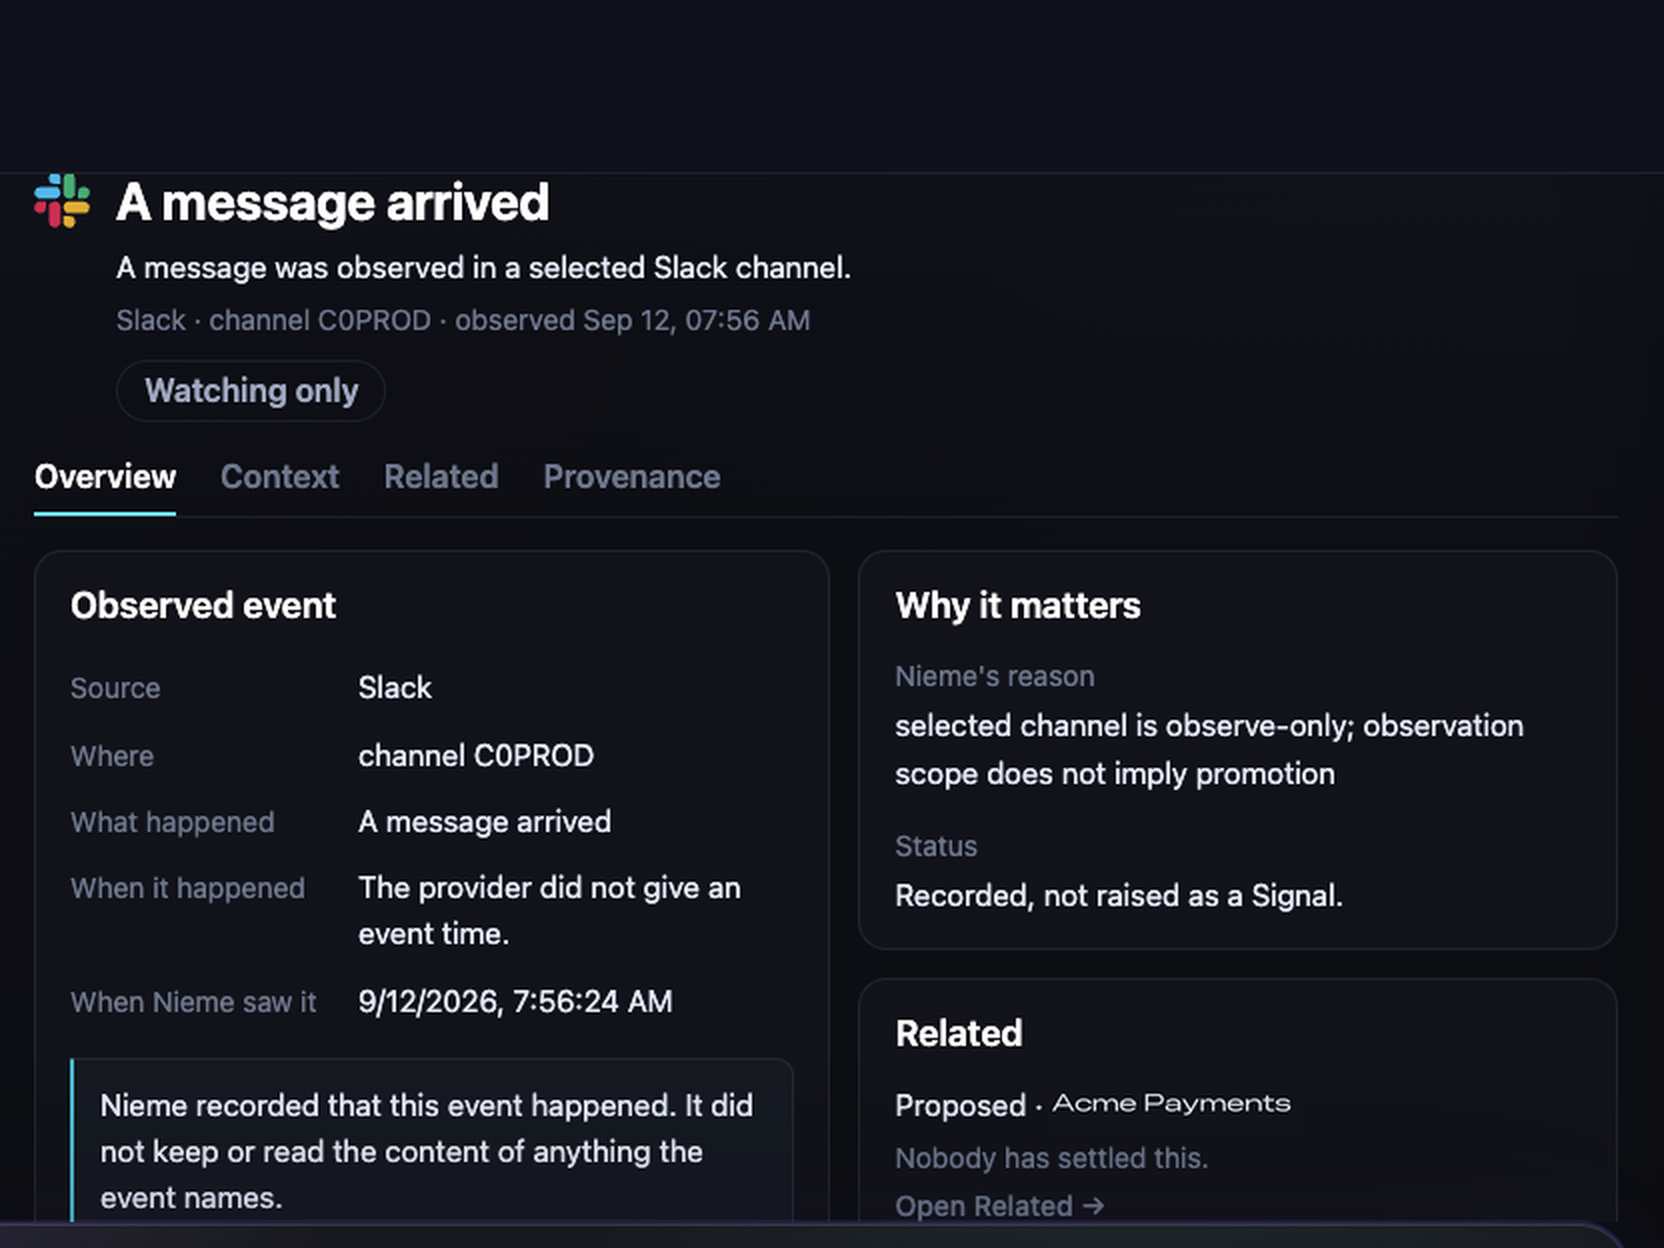
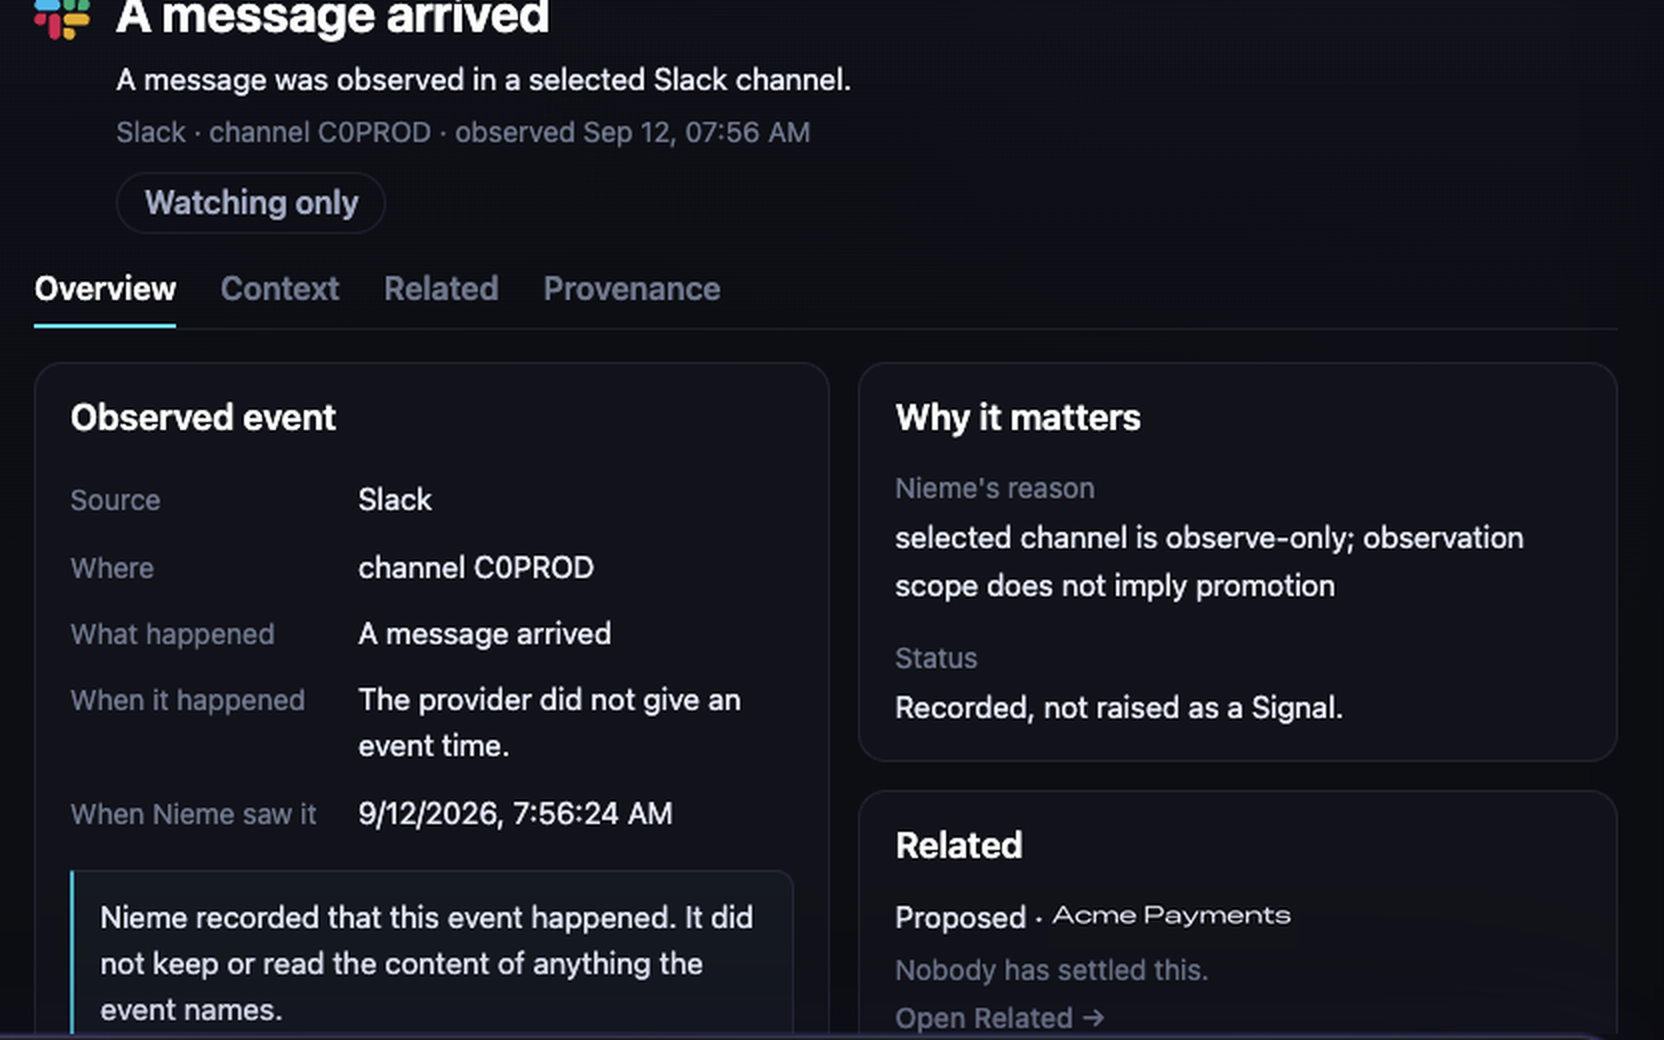
WEBSITE-RUNTIME-REPOSITION-001 R4.3 — Without/With ledger, frame 02 POC
THE PROBLEM UNDERNEATH — Product Authority: the seven-step chain "is not really
self-explanatory... I prefer the comparison without Nieme and With Nieme".

Replaced with a ledger of the same seven steps against who carries each one:

  WITHOUT NIEME            WITH NIEME
  a person   x7            Nieme x5, a person x1, already carried x1
  Seven steps on a person  One decision on a person

The claim is now legible without reading the caption, and it stays honest: the
one step Nieme does not take is "Decide what should happen", which is
highlighted rather than hidden. Step 7 resolves to "already carried" instead of
fraying, which is the actual product behaviour. The chain's decay treatment,
its seams and its numbered pills are retired.

Note: `.ledger` is an existing legacy section class carrying section padding, so
the new container is `.whocarries` — the collision was silently insetting every
row by 64px. The burden column is neutral grey, not a warm tint: the colour law
says neutrals carry meaning, and the repetition of "a person" already makes the
point without inventing a semantic hue.

FRAME 02 — POC ONLY, NOT SHIPPABLE. The supplied Operation Draft capture is
structurally ideal for this frame: DRAFT.ON · OPERATION.ON, the Workforce /
Budget / Deadline / Assurance / Outputs bar, OPERATION DRAFT with its saved-draft
id, "Ready to approve · Ready for Review", OUTCOME / TITLE, the objective, and
[…]

diff --git a/index.html b/index.html
@@ -212,7 +212,7 @@
                  while the frame-01 spec calls for "Raised as a Signal". This crop proves
                  observation-without-authority rather than promotion — decide which claim
                  frame 01 should make. A real channel identifier remains in the crop. -->
-            <img src="/assets/shots/proof-observed.png" alt="Nieme Signals: a Slack message observed in a selected channel, with its source, both timestamps, why it matters, and the status — recorded, not raised as a Signal." loading="lazy" width="1664" height="1248">
+            <img src="/assets/shots/proof-observed.png" alt="Nieme Signals: a Slack message observed in a selected channel, with its source, both timestamps, why it matters, and the status — recorded, not raised as a Signal." loading="lazy" width="1664" height="1040">
           </div>
         </figure>
         <div class="proof-link" aria-hidden="true"><span class="proof-link-dot"></span></div>
@@ -220,11 +220,21 @@
           <div class="proof-head"><span class="proof-num">02</span><h3>Governed</h3></div>
           <p class="proof-note">Context becomes proposed work. Authority decides whether it may run.</p>
           <div class="proof-shot">
-            <div class="shot-placeholder">
-              <span class="shot-slot-label">PROOF FRAME B · GOVERNED</span>
-              <p class="shot-slot-desc">The Context change · the suggested work · the Northstar Revenue binding · the objective · boundaries and authority · the real governance decision point</p>
-              <code>proof-governed.png</code>
-            </div>
+            <!-- POC ONLY — NOT SHIPPABLE.
+                 The Operation Draft capture Product Authority supplied. Four text
+                 blocks were rewritten because the real draft was Nieme's own work and
+                 carried, verbatim, both of the retired category lines this whole
+                 reposition exists to remove — so it cannot appear on the page that
+                 removed them. Rewritten: the header title, the TITLE field, the
+                 objective body, and the Project binding.
+                 That is four rewrites inside one product screenshot, which the R4 art
+                 direction forbids outright. It stands only as a composition preview.
+                 BEFORE MERGE: recapture in the marketing Runtime with the Acme Payments
+                 / Northstar Revenue story authored in the product, so nothing is patched.
+                 Real identifiers still visible in the crop: the GitHub repository name
+                 and path, a commit SHA, a frozen-version id, and two NIEME-SRC document
+                 names. Nieme's own, not a customer's — but they do not fit the story. -->
+            <img src="/assets/shots/proof-governed.png" alt="Nieme Operation Draft: a proposed Operation bound to the Northstar Revenue project, with its objective, its declared outputs, its source package, and a Ready to approve state awaiting review." loading="lazy" width="1920" height="1200">
           </div>
         </figure>
         <div class="proof-link" aria-hidden="true"><span class="proof-link-dot"></span></div>
@@ -250,24 +260,54 @@
         <h2>AI can do more work.<br>People are still carrying the coordination.</h2>
         <p>The model is not the bottleneck any more. The work around it is.</p>
       </div>
-      <div class="coord">
-        <div class="coord-chain">
-          <div class="coord-step" data-decay="1"><span class="coord-i">1</span>Notice something changed</div>
-          <div class="coord-seam" aria-hidden="true"></div>
-          <div class="coord-step" data-decay="2"><span class="coord-i">2</span>Gather the context</div>
-          <div class="coord-seam" aria-hidden="true"></div>
-          <div class="coord-step" data-decay="3"><span class="coord-i">3</span>Decide what should happen</div>
-          <div class="coord-seam" aria-hidden="true"></div>
-          <div class="coord-step" data-decay="4"><span class="coord-i">4</span>Brief the AI</div>
-          <div class="coord-seam" aria-hidden="true"></div>
-          <div class="coord-step" data-decay="5"><span class="coord-i">5</span>Move the result</div>
-          <div class="coord-seam" aria-hidden="true"></div>
-          <div class="coord-step" data-decay="6"><span class="coord-i">6</span>Follow up</div>
-          <div class="coord-seam" aria-hidden="true"></div>
-          <div class="coord-step coord-step--lost" data-decay="7"><span class="coord-i">7</span>Reconstruct the context next time</div>
+      <div class="whocarries">
+        <div class="ldg-head">
+          <div></div>
+          <div class="ldg-col ldg-col--before">WITHOUT NIEME</div>
+          <div class="ldg-col ldg-col--after">WITH NIEME</div>
         </div>
-        <p class="coord-burden">Every step is a person's attention. The chain frays at the end — and the next request starts it again.</p>
+          <div class="ldg-row">
+            <div class="ldg-step"><span class="ldg-n">1</span>Notice something changed</div>
+            <div class="ldg-who ldg-who--before">a person</div>
+            <div class="ldg-who ldg-who--after">Nieme</div>
+          </div>
+          <div class="ldg-row">
+            <div class="ldg-step"><span class="ldg-n">2</span>Gather the context</div>
+            <div class="ldg-who ldg-who--before">a person</div>
+            <div class="ldg-who ldg-who--after">Nieme</div>
+          </div>
+          <div class="ldg-row is-human">
+            <div class="ldg-step"><span class="ldg-n">3</span>Decide what should happen</div>
+            <div class="ldg-who ldg-who--before">a person</div>
+            <div class="ldg-who ldg-who--after">a person</div>
+          </div>
+          <div class="ldg-row">
+            <div class="ldg-step"><span class="ldg-n">4</span>Brief the AI</div>
+            <div class="ldg-who ldg-who--before">a person</div>
+            <div class="ldg-who ldg-who--after">Nieme</div>
+          </div>
+          <div class="ldg-row">
+            <div class="ldg-step"><span class="ldg-n">5</span>Move the result</div>
+            <div class="ldg-who ldg-who--before">a person</div>
+            <div class="ldg-who ldg-who--after">Nieme</div>
+          </div>
+          <div class="ldg-row">
+            <div class="ldg-step"><span class="ldg-n">6</span>Follow up</div>
+            <div class="ldg-who ldg-who--before">a person</div>
+            <div class="ldg-who ldg-who--after">Nieme</div>
+          </div>
+          <div class="ldg-row is-carried">
+            <div class="ldg-step"><span class="ldg-n">7</span>Reconstruct the context next time</div>
+            <div class="ldg-who ldg-who--before">a person</div>
+            <div class="ldg-who ldg-who--after">already carried</div>
+          </div>
+        <div class="ldg-foot">
+          <div></div>
+          <div class="ldg-total ldg-total--before">Seven steps on a person</div>
+          <div class="ldg-total ldg-total--after">One decision on a person</div>
+        </div>
       </div>
+      <p class="coord-burden">Nieme does not remove the judgment. It removes everything around it — and the next request no longer starts from nothing.</p>
       <div class="coord-close">
         <span class="coord-close-trace" aria-hidden="true"></span>
         <p class="jtbd-close">Nieme closes that loop.</p>

diff --git a/pt-br/index.html b/pt-br/index.html
@@ -203,7 +203,7 @@
             <!-- POC ONLY — NOT SHIPPABLE. See the note on the English page.
                  Pilot customer name pixel-patched; must be replaced by a recapture made
                  with synthetic names from the start before merge. -->
-            <img src="/assets/shots/proof-observed.png" alt="Sinais da Nieme: uma mensagem do Slack observada num canal selecionado, com a fonte, os dois horários, por que importa e o status — registrado, não elevado a Sinal." loading="lazy" width="1664" height="1248">
+            <img src="/assets/shots/proof-observed.png" alt="Sinais da Nieme: uma mensagem do Slack observada num canal selecionado, com a fonte, os dois horários, por que importa e o status — registrado, não elevado a Sinal." loading="lazy" width="1664" height="1040">
           </div>
         </figure>
         <div class="proof-link" aria-hidden="true"><span class="proof-link-dot"></span></div>
@@ -211,11 +211,10 @@
           <div class="proof-head"><span class="proof-num">02</span><h3>Governado</h3></div>
           <p class="proof-note">O contexto vira trabalho proposto. A autoridade decide se ele pode rodar.</p>
           <div class="proof-shot">
-            <div class="shot-placeholder">
-              <span class="shot-slot-label">PROOF FRAME B · GOVERNED</span>
-              <p class="shot-slot-desc">A mudança de Contexto · o trabalho sugerido · o vínculo com Northstar Revenue · o objetivo · limites e autoridade · o ponto real de decisão de governança</p>
-              <code>proof-governed.png</code>
-            </div>
+            <!-- POC ONLY — NOT SHIPPABLE. See the note on the English page.
+                 Four text blocks rewritten because the real draft carried the retired
+                 positioning. Must be recaptured with the story authored in the product. -->
+            <img src="/assets/shots/proof-governed.png" alt="Rascunho de Operação da Nieme: uma Operação proposta vinculada ao projeto Northstar Revenue, com objetivo, entregáveis declarados, pacote de fontes e o estado Pronto para aprovar aguardando revisão." loading="lazy" width="1920" height="1200">
           </div>
         </figure>
         <div class="proof-link" aria-hidden="true"><span class="proof-link-dot"></span></div>
@@ -241,24 +240,54 @@
         <h2>A IA já produz mais trabalho.<br>As pessoas ainda carregam a coordenação.</h2>
         <p>O modelo já não é o gargalo. O trabalho em volta dele é.</p>
       </div>
-      <div class="coord">
-        <div class="coord-chain">
-          <div class="coord-step" data-decay="1"><span class="coord-i">1</span>Perceber que algo mudou</div>
-          <div class="coord-seam" aria-hidden="true"></div>
-          <div class="coord-step" data-decay="2"><span class="coord-i">2</span>Reunir o contexto</div>
-          <div class="coord-seam" aria-hidden="true"></div>
-          <div class="coord-step" data-decay="3"><span class="coord-i">3</span>Decidir o que deve acontecer</div>
-          <div class="coord-seam" aria-hidden="true"></div>
-          <div class="coord-step" data-decay="4"><span class="coord-i">4</span>Orientar a IA</div>
-          <div class="coord-seam" aria-hidden="true"></div>
-          <div class="coord-step" data-decay="5"><span class="coord-i">5</span>Mover o resultado</div>
-          <div class="coord-seam" aria-hidden="true"></div>
-          <div class="coord-step" data-decay="6"><span class="coord-i">6</span>Acompanhar</div>
-          <div class="coord-seam" aria-hidden="true"></div>
-          <div class="coord-step coord-step--lost" data-decay="7"><span class="coord-i">7</span>Reconstruir o contexto da próxima vez</div>
+      <div class="whocarries">
+        <div class="ldg-head">
+          <div></div>
+          <div class="ldg-col ldg-col--before">SEM A NIEME</div>
+          <div class="ldg-col ldg-col--after">COM A NIEME</div>
         </div>
-        <p class="coord-burden">Cada etapa é a atenção de uma pessoa. A corrente se desfaz no fim — e o próximo pedido recomeça tudo.</p>
+          <div class="ldg-row">
+            <div class="ldg-step"><span class="ldg-n">1</span>Perceber que algo mudou</div>
+            <div class="ldg-who ldg-who--before">uma pessoa</div>
+            <div class="ldg-who ldg-who--after">Nieme</div>
+          </div>
+          <div class="ldg-row">
+            <div class="ldg-step"><span class="ldg-n">2</span>Reunir o contexto</div>
+            <div class="ldg-who ldg-who--before">uma pessoa</div>
+            <div class="ldg-who ldg-who--after">Nieme</div>
+          </div>
+          <div class="ldg-row is-human">
+            <div class="ldg-step"><span class="ldg-n">3</span>Decidir o que deve acontecer</div>
+            <div class="ldg-who ldg-who--before">uma pessoa</div>
+            <div class="ldg-who ldg-who--after">uma pessoa</div>
+          </div>
+          <div class="ldg-row">
+            <div class="ldg-step"><span class="ldg-n">4</span>Explicar para a IA</div>
+            <div class="ldg-who ldg-who--before">uma pessoa</div>
+            <div class="ldg-who ldg-who--after">Nieme</div>
+          </div>
+          <div class="ldg-row">
+            <div class="ldg-step"><span class="ldg-n">5</span>Levar o resultado adiante</div>
+            <div class="ldg-who ldg-who--before">uma pessoa</div>
+            <div class="ldg-who ldg-who--after">Nieme</div>
+          </div>
+          <div class="ldg-row">
+            <div class="ldg-step"><span class="ldg-n">6</span>Acompanhar</div>
+            <div class="ldg-who ldg-who--before">uma pessoa</div>
+            <div class="ldg-who ldg-who--after">Nieme</div>
+          </div>
+          <div class="ldg-row is-carried">
+            <div class="ldg-step"><span class="ldg-n">7</span>Remontar o contexto da próxima vez</div>
+            <div class="ldg-who ldg-who--before">uma pessoa</div>
+            <div class="ldg-who ldg-who--after">já está carregado</div>
+          </div>
+        <div class="ldg-foot">
+          <div></div>
+          <div class="ldg-total ldg-total--before">Sete passos numa pessoa</div>
+          <div class="ldg-total ldg-total--after">Uma decisão numa pessoa</div>
+        </div>
       </div>
+      <p class="coord-burden">A Nieme não tira o julgamento. Ela tira tudo o que existe em volta — e o próximo pedido deixa de começar do zero.</p>
       <div class="coord-close">
         <span class="coord-close-trace" aria-hidden="true"></span>
         <p class="jtbd-close">A Nieme fecha esse ciclo.</p>

diff --git a/styles.css b/styles.css
@@ -983,30 +983,51 @@ h1,h2,h3{text-wrap:balance}
 
 /* hero: an observation is not a request — the send action is not armed for it */
 
-/* ---- problem: a coordination chain that accumulates and frays ---- */
-.coord{max-width:1440px;margin:0 auto}
-.coord-chain{display:flex;flex-wrap:wrap;align-items:stretch;gap:0}
-.coord-step{position:relative;flex:1 1 150px;min-width:150px;padding:20px 18px 22px;
-  border:1px solid var(--line);border-right:0;background:linear-gradient(180deg,#ffffff09,#ffffff03);
-  font-size:15px;line-height:1.4;color:#cdd0de;transition:color .3s,background .3s,transform .3s}
-.coord-step:first-child{border-top-left-radius:14px;border-bottom-left-radius:14px}
-.coord-step:last-child{border-right:1px solid var(--line);border-top-right-radius:14px;border-bottom-right-radius:14px}
-.coord-step:hover{color:#fff;background:linear-gradient(180deg,#ffffff14,#ffffff06);transform:translateY(-3px)}
-.coord-i{display:block;font-size:11px;letter-spacing:.18em;color:var(--purple);margin-bottom:10px;opacity:.85}
-.coord-step[data-decay="2"]{opacity:.92}.coord-step[data-decay="3"]{opacity:.82}
-.coord-step[data-decay="4"]{opacity:.7}.coord-step[data-decay="5"]{opacity:.58}
-.coord-step[data-decay="6"]{opacity:.46}
-.coord-step--lost{opacity:.34;border-style:dashed}
-.coord-step--lost .coord-i{color:#8f93a8}
-.coord-seam{width:0;border-left:1px dashed #ffffff1a;align-self:stretch}
-.coord-burden{max-width:840px;margin:26px 0 0;font-size:16px;line-height:1.6;color:#8f93a8}
+/* ---- problem: the same seven steps, and who carries each one.
+       A ledger, not a chain — the claim is legible without reading a caption. ---- */
+.whocarries{max-width:1440px;margin:0 auto;border-top:1px solid var(--line)}
+.ldg-head,.ldg-row,.ldg-foot{display:grid;grid-template-columns:minmax(0,1.35fr) minmax(0,1fr) minmax(0,1fr);
+  align-items:center;gap:24px}
+.ldg-head{padding:16px 0 14px}
+.ldg-col{font-size:11px;letter-spacing:.2em;text-transform:uppercase}
+.ldg-col--before{color:#8b8fa3}
+.ldg-col--after{color:#c4b5fd}
+.ldg-row{padding:15px 0;border-top:1px solid #ffffff0a;position:relative}
+.ldg-step{display:flex;align-items:baseline;gap:12px;font-size:16px;line-height:1.4;color:#c8cbd9;
+  letter-spacing:-.01em}
+.ldg-n{flex:none;width:16px;font-size:11.5px;color:#5f6478;font-variant-numeric:tabular-nums}
+.ldg-who{font-size:14.5px;line-height:1.4}
+/* left: every step lands on a person */
+.ldg-who--before{color:#9ba0b4}
+/* right: Nieme takes it — except the one that must stay human */
+.ldg-who--after{color:#a9b4ca}
+.ldg-row.is-human .ldg-who--after{color:#fff;font-weight:560}
+.ldg-row.is-human{background:linear-gradient(90deg,#7b4dff00,#7b4dff14 62%,#2fd4b80f)}
+.ldg-row.is-human .ldg-step{color:#eef0f7}
+.ldg-row.is-carried .ldg-who--after{color:#7ee7ffcc}
+.ldg-row.is-carried .ldg-step,.ldg-row.is-carried .ldg-who--before{opacity:.55}
+/* the count is the point */
+.ldg-foot{padding:20px 0 4px;border-top:1px solid var(--line);margin-top:6px}
+.ldg-total{font-size:17px;line-height:1.35;letter-spacing:-.015em}
+.ldg-total--before{color:#9ba0b4}
+.ldg-total--after{color:#fff;font-weight:520}
+.coord-burden{max-width:1440px;margin:22px auto 0;font-size:15px;line-height:1.6;color:#8f93a8}
 .coord-close{display:flex;align-items:center;gap:24px;max-width:1440px;margin:44px auto 0}
 /* BRAND LAW: the Nieme glyph is the logo mark and nothing else — never a bullet,
-   node, completion mark, flow endpoint, diagram ornament or status icon.
-   The chain resolves into a trace, not into the mark. */
+   node, completion mark, flow endpoint, diagram ornament or status icon. */
 .coord-close-trace{flex:none;width:72px;height:1px;
   background:linear-gradient(90deg,#7b4dff00,#7b4dff99 38%,var(--cyan))}
 .jtbd-close{margin:0;font-size:clamp(26px,3vw,40px);letter-spacing:-.04em;line-height:1.1;color:#fff;font-weight:420}
+@media (max-width:760px){
+  .ldg-head{display:none}
+  .ldg-row,.ldg-foot{grid-template-columns:minmax(0,1fr);gap:6px}
+  .ldg-who{font-size:13.5px;padding-left:34px;position:relative}
+  .ldg-who::before{position:absolute;left:0;font-size:10px;letter-spacing:.14em;
+    text-transform:uppercase;color:#5f6478}
+  .ldg-who--before::before{content:"w/o"}
+  .ldg-who--after::before{content:"with"}
+  .ldg-total{font-size:15px}
+}
 
 /* ---- entry paths: bifurcation converging ---- */
 .bifurcate{max-width:1440px;margin:8px auto 0;text-align:center}
@@ -1237,7 +1258,7 @@ h1,h2,h3{text-wrap:balance}
 .proof-num{font-size:11.5px;letter-spacing:.18em;color:var(--purple)}
 .proof-head h3{margin:0;font-size:clamp(20px,1.9vw,26px);letter-spacing:-.03em;font-weight:440}
 .proof-note{margin:0 0 18px;font-size:15px;line-height:1.5;color:var(--muted);min-height:70px}
-.proof-shot{position:relative;aspect-ratio:4/3;border:1px solid var(--rule2,#ffffff1f);border-radius:16px;
+.proof-shot{position:relative;aspect-ratio:16/10;border:1px solid var(--rule2,#ffffff1f);border-radius:16px;
   overflow:hidden;background:#0c0e16;box-shadow:0 30px 90px #00000073;transition:transform .3s,box-shadow .3s}
 .proof-shot:hover{transform:translateY(-4px);box-shadow:0 40px 110px #0000008c,0 0 40px #7b4dff1f}
 .proof-step--raised .proof-shot:hover{box-shadow:0 40px 110px #0000008c,0 0 0 1px #7b4dff40,0 0 56px #7b4dff2e}
@@ -1285,10 +1306,6 @@ h1,h2,h3{text-wrap:balance}
   .cst-orbit,.cst-spoke,.cst-pulse{display:none}
   .cst-core{position:static;transform:none;margin-bottom:6px}
   .cst-node{position:static;transform:none}
-  .coord-step{flex:1 1 100%;border-right:1px solid var(--line);border-bottom:0;border-radius:0}
-  .coord-step:first-child{border-radius:14px 14px 0 0}
-  .coord-step:last-child{border-bottom:1px solid var(--line);border-radius:0 0 14px 14px}
-  .coord-seam{display:none}
 }
 @media (prefers-reduced-motion:reduce){
   .rvx-ring,.rvx-flow,.rvx-return,.proof-link-dot,.cst-pulse,
